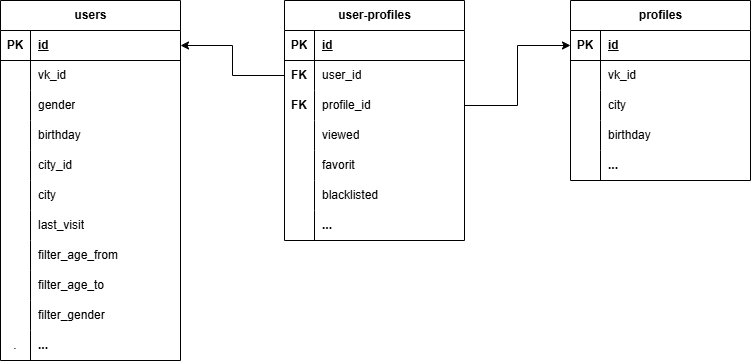
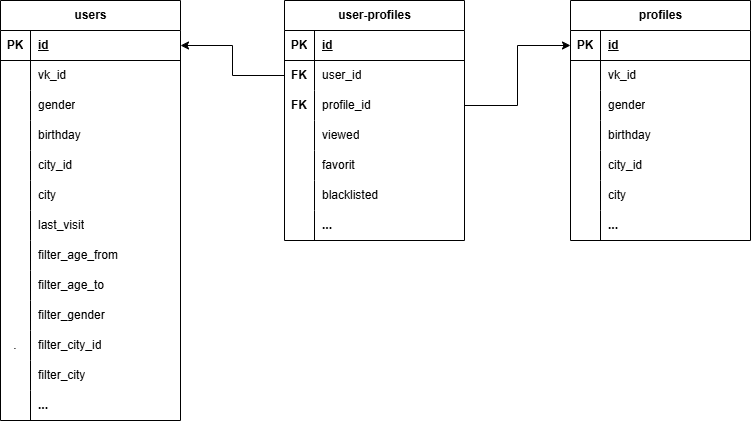
task finished

diff --git a/DB/graph.md b/DB/graph.md
@@ -3,13 +3,40 @@
 1. таблица users
    В этой таблице содержатся пользователи бота
    Поля:
-    1. vk_id - идентификатор вконтакте
-    2. gender - пол
-    3. birthday - дата рождения
-    4. city_id - идентификатор города
-        Не завершено
+   1. id - первичный ключ
+   2. vk_id - идентификатор вконтакте
+   3. gender - пол
+   4. birthday - дата рождения
+   5. city_id - идентификатор города
+   6. city - название города
+   7. last_visit - последнее взаимодействте с ботом
+   8. filter_age_from - настройки фильтра для поиска (минимальный возраст кандидата)
+   9. filter_age_to - настройки фильтра для поиска (максимальный возраст кандидата)
+   10. filter_gender - настройки фильтра для поиска (пол)
+   11. filter_city_id - настройки фильтра для поиска (id города)
+   12. filter_city - настройки фильтра для поиска (название города)
+        Возможны последующие дополнения, изменения
 
-2. profiles
-3. users-profiles
+2. users-profiles
+   Эта таблица организует связь многие ко многим между таблицей пользователелей бота и таблицей анкет
+   Поля:
+   1. id - первичный ключ
+   2. user_id - внешний ключ для таблицы пользователей
+   3. profile_id - внешний ключ для таблицы профилей
+   4. viewed - флаг содержащий дату и время, когда профиль был просмотрен либо NULL
+   5. favorit - флаг содержащий дату и время, когда профиль был добавлен в избранное либо NULL
+   6. blacklisted - флаг содержащий дату и время, когда профиль был добавлен в игнор либо NULL
+        Возможны последующие дополнения, изменения
 
-Не завершено
+3. profiles
+   Это таблица профилей
+   Поля:
+   1. id - первичный ключ
+   2. vk_id - идентификатор вконтакте
+   3. gender - пол
+   4. birthday - дата рождения
+   5. city_id - идентификатор города
+   6. city - название города
+        Возможны последующие дополнения, изменения
+
+Возможны последующие дополнения, изменения

diff --git a/DB/create_DB.md b/DB/create_DB.md
@@ -1,0 +1,3 @@
+createdb -U postgres vk_dating
+
+psql -U postgres -d vk_dating
